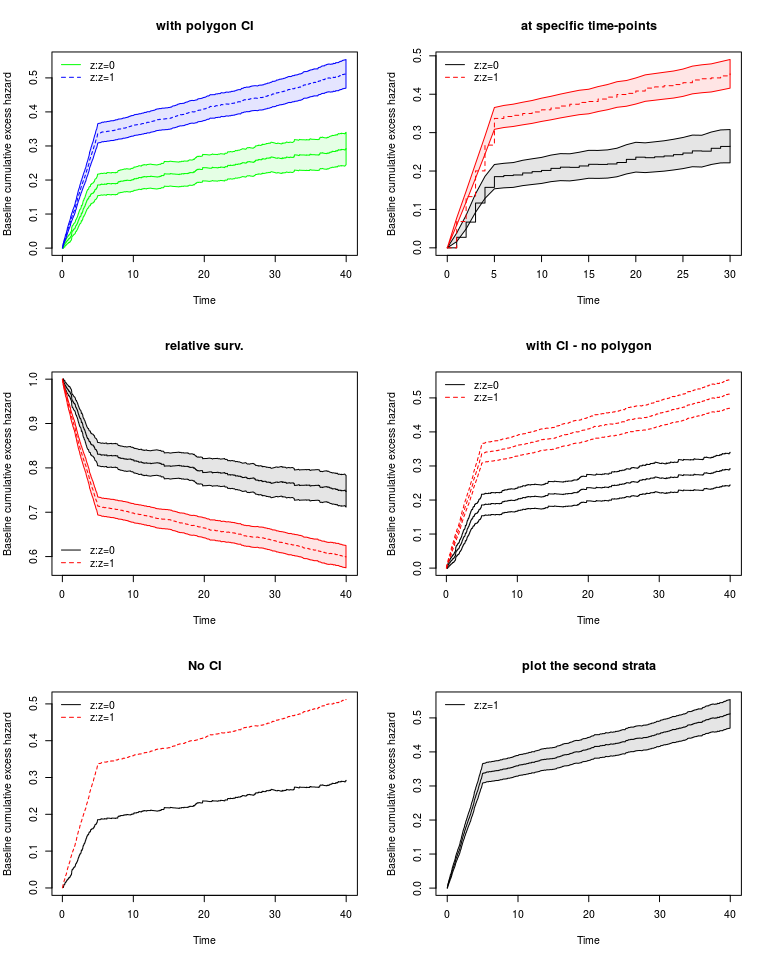
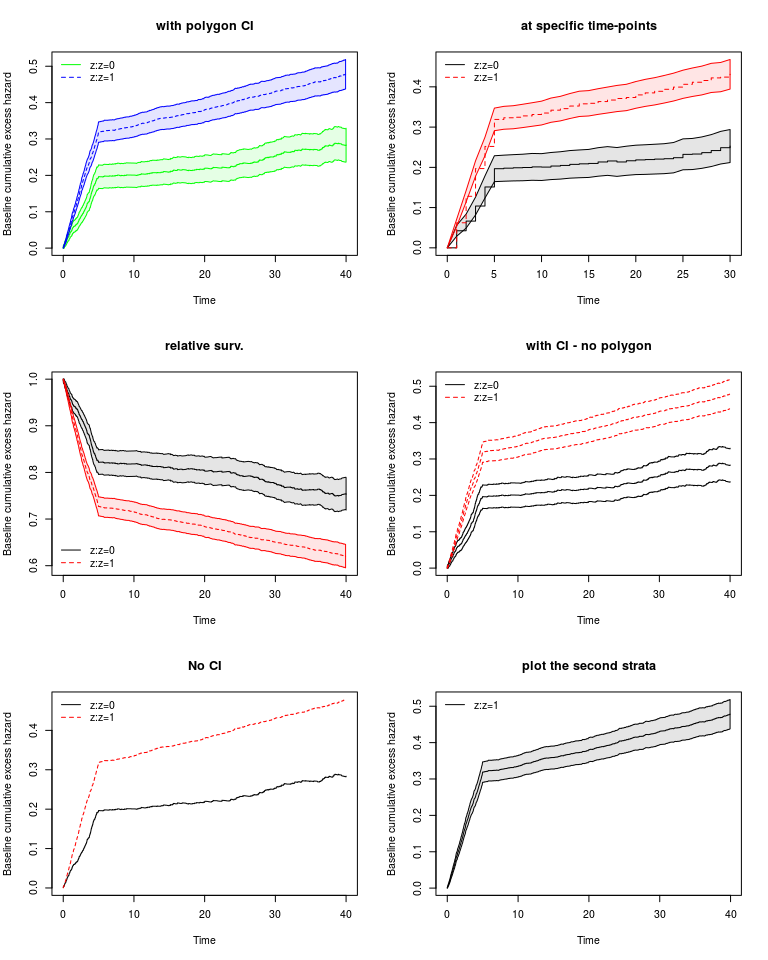
working on examples

diff --git a/README.md b/README.md
@@ -26,7 +26,7 @@ library(matchsurv)
 #> Loading required package: timereg
 #> Loading required package: mets
 #> Loading required package: lava
-#> lava version 1.5
+#> lava version 1.5.1
 #> mets version 1.2.2
 ```
 
@@ -38,16 +38,16 @@ Here it is an example of the data:
 d<-data.sim(5000,5)
 head(d,10)
 #>        time status expo id j x z       cc
-#> 1  74.35214      0    0  1 2 1 1 70.47335
-#> 2  74.26165      0    0  2 2 1 1 63.56869
-#> 3  77.13151      0    0  3 2 1 0 59.65443
-#> 4  71.34985      0    0  4 2 0 0 70.25551
-#> 5  68.28558      0    0  5 2 0 1 63.48042
-#> 6  64.60467      0    0  6 2 0 0 66.81444
-#> 7  61.82102      0    0  7 2 0 1 63.57220
-#> 8  64.48950      0    0  8 2 0 1 66.15732
-#> 9  22.35702      1    0  9 2 1 1 65.35506
-#> 10 65.25724      0    0 10 2 0 1 67.17132
+#> 1  63.97744      0    0  1 2 0 1 66.08425
+#> 2  61.59965      0    0  2 2 0 1 70.83388
+#> 3  73.17210      0    0  3 2 1 1 62.98222
+#> 4  42.21481      1    0  4 2 0 1 60.85090
+#> 5  74.00916      0    0  5 2 1 1 68.62952
+#> 6  62.52744      0    0  6 2 0 1 66.99557
+#> 7  79.54926      0    0  7 2 1 1 59.73981
+#> 8  20.70074      1    0  8 2 1 1 63.95996
+#> 9  74.89154      0    0  9 2 1 1 63.72914
+#> 10 78.27219      0    0 10 2 1 1 67.20607
 ```
 
 `matchsurv::data.sim` let you simulate some matched survival data; `competing=TRUE` will let you chose for a competing risk setting; when `nullmod=TRUE` no covariates are simulated.
@@ -88,11 +88,11 @@ To visualize the coefficient estimates
 summary(m)
 #> 
 #>      n events
-#>   4835    615
-#>  20165   2871
+#>   4875    619
+#>  20125   2810
 #> 
-#>             Estimate      S.E. P-value
-#> factor(x)1 -0.032260  0.052255   0.537
+#>            Estimate     S.E. P-value
+#> factor(x)1 0.031365 0.053170  0.5553
 ```
 
 To estimate the cumulative baseline excess hazard:
